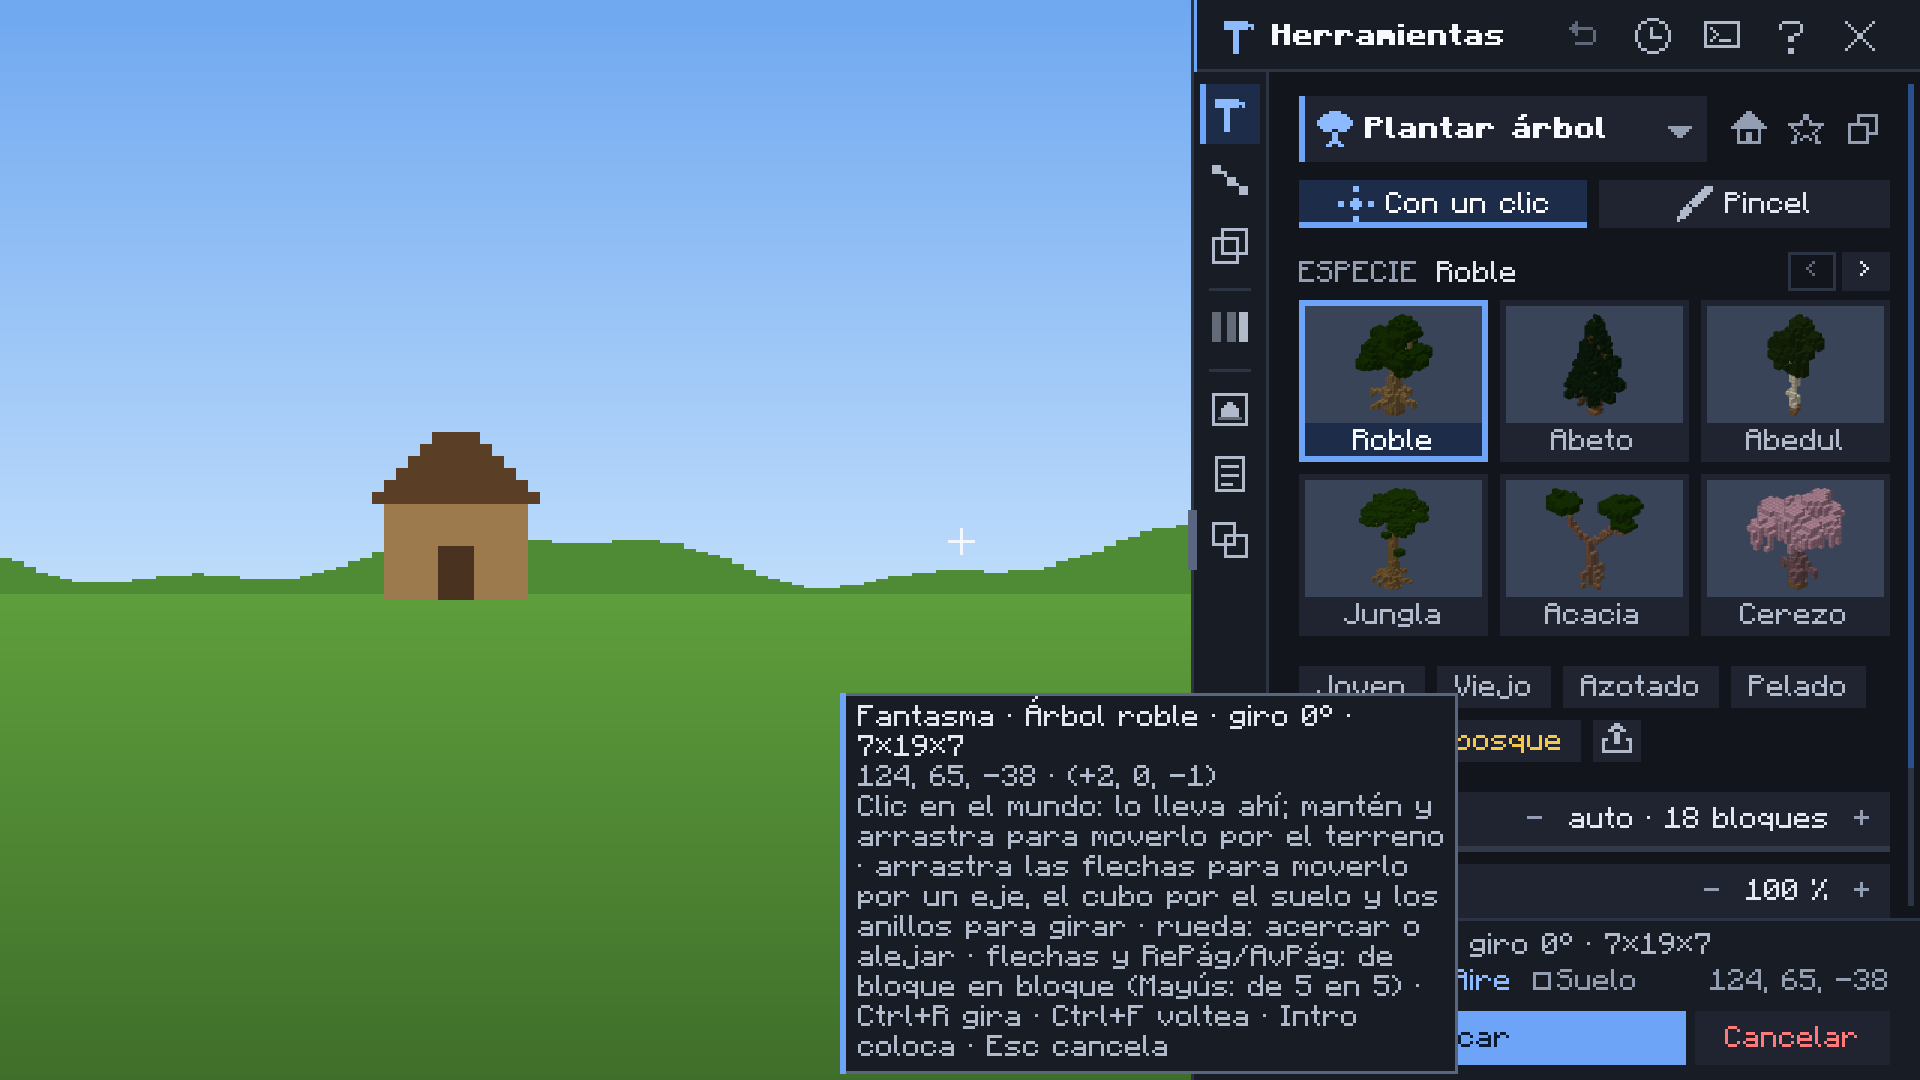
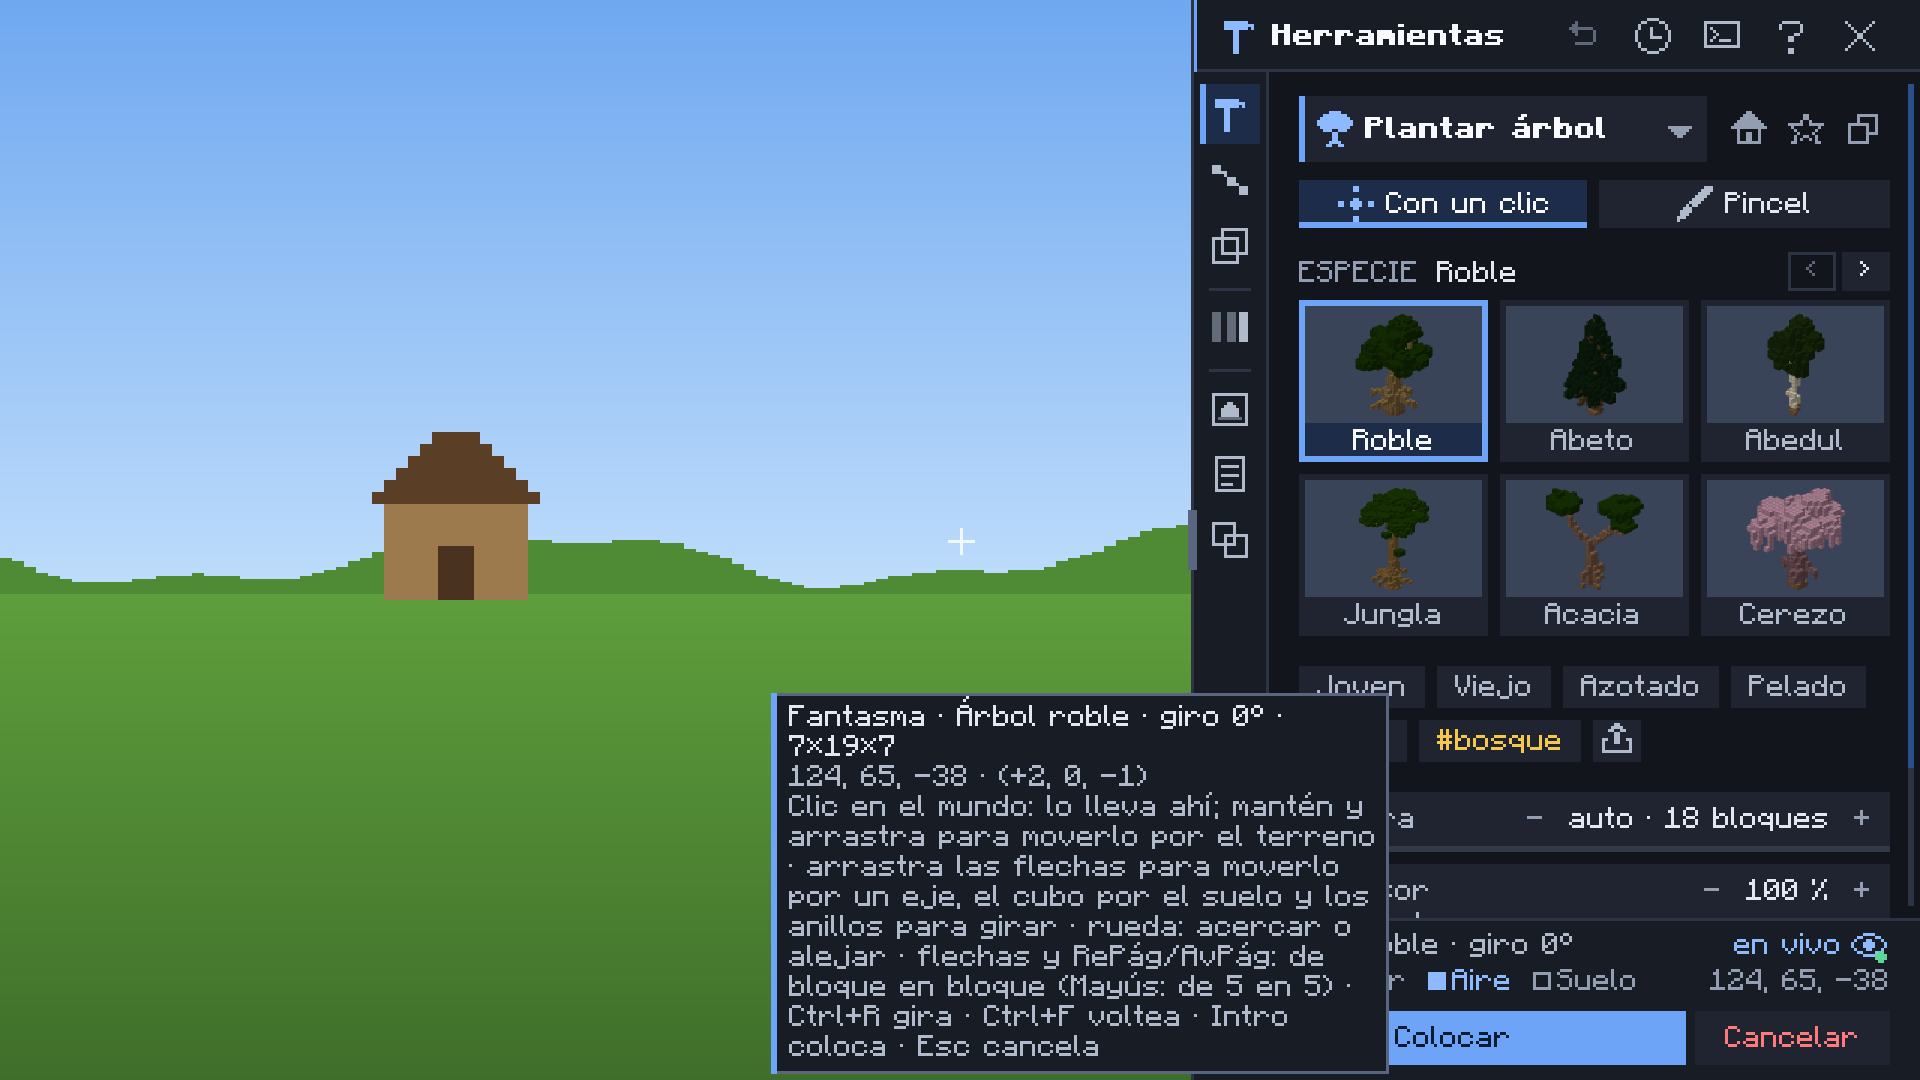
Maquetas: la escena del fantasma en vivo busca lo que dice el pie

diff --git a/src/test/java/com/komainu/moxia/studio/ui/StudioMockupsTest.java b/src/test/java/com/komainu/moxia/studio/ui/StudioMockupsTest.java
@@ -297,7 +297,8 @@ class StudioMockupsTest {
             tools(driver, "tree");
             driver.host.ghost = GhostFooterTest.ghost("Árbol roble", "giro 0° · 7×19×7",
                     "124, 65, -38 · (+2, 0, -1)", "", new int[5]);
-            int[] title = driver.where("Árbol roble · giro 0° · 7×19×7");
+            // El pie dice lo que es y su giro; las medidas van en el tooltip que sale al pasar el ratón.
+            int[] title = driver.where("Árbol roble · giro 0°");
             driver.mouseX = title[0];
             driver.mouseY = title[1];
         }));
